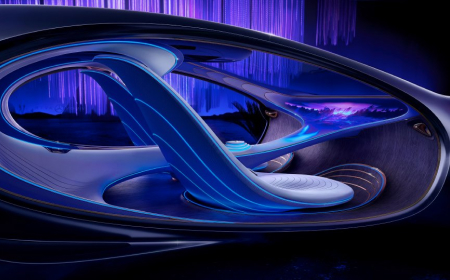
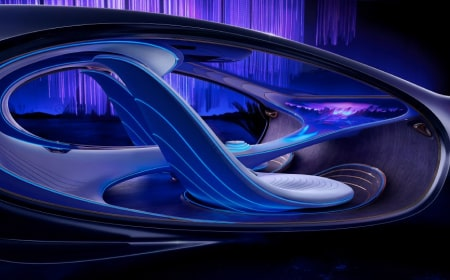
webp and images

diff --git a/index.html b/index.html
@@ -346,7 +346,7 @@
         </div>
       </div>
       <div class="img-bottom">
-        <img src="images/bg/bg-bottom.png" alt="Car" class="img-bottom__img" />
+        <img src="images/bg/bg-bottom.webp" alt="Car" class="img-bottom__img" />
       </div>
     </div>
     <footer class="footer">

diff --git a/scss/style.scss b/scss/style.scss
@@ -60,7 +60,7 @@ body {
   }
   &__content {
     position: relative;
-    background-image: url(../images/bg/bg-header.png);
+    background-image: url(../images/bg/bg-header.webp);
     background-repeat: no-repeat;
     background-size: cover;
     background-position: center;

diff --git a/css/style.css b/css/style.css
@@ -64,7 +64,7 @@ body {
 }
 .header__content {
   position: relative;
-  background-image: url(../images/bg/bg-header.png);
+  background-image: url(../images/bg/bg-header.webp);
   background-repeat: no-repeat;
   background-size: cover;
   background-position: center;
